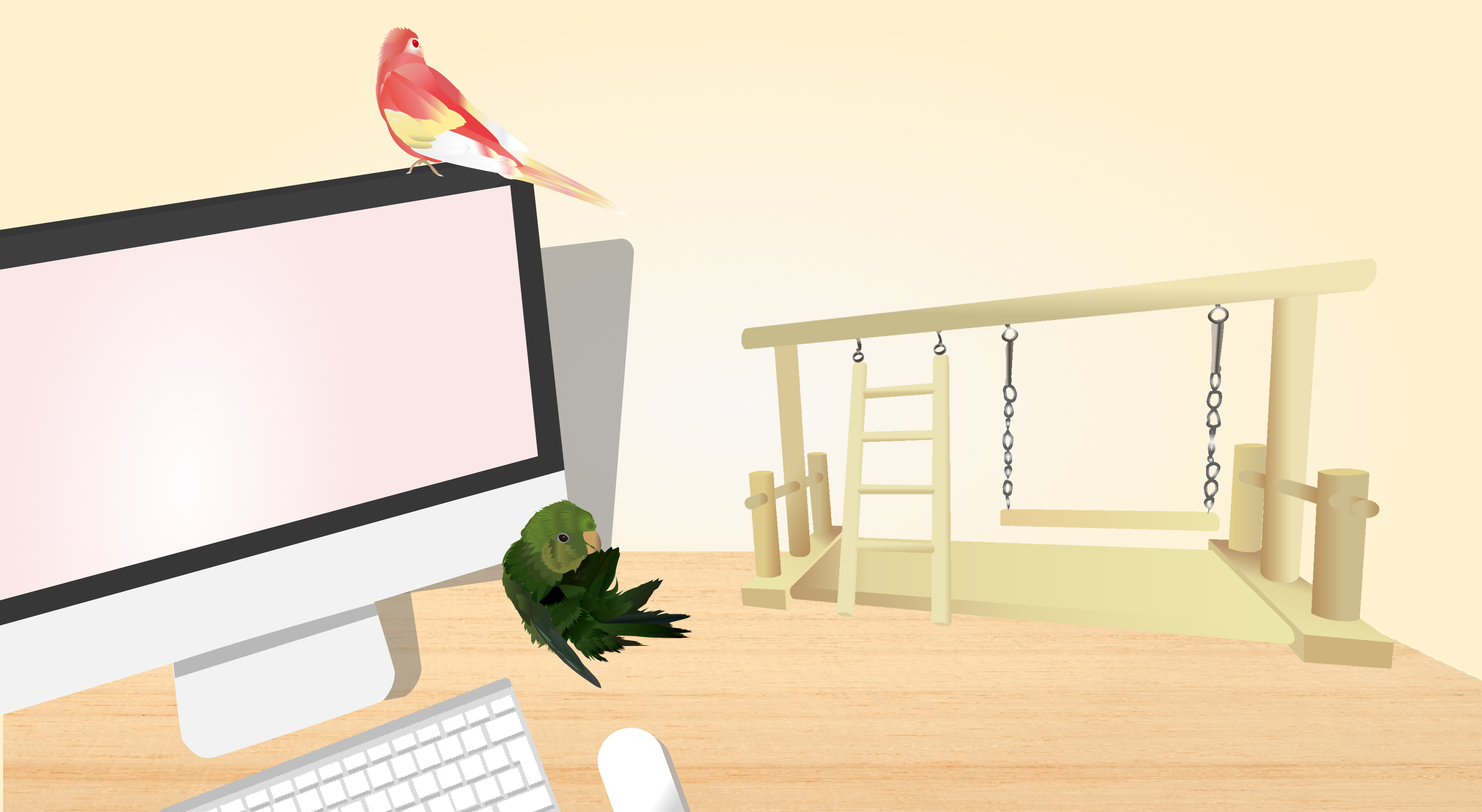
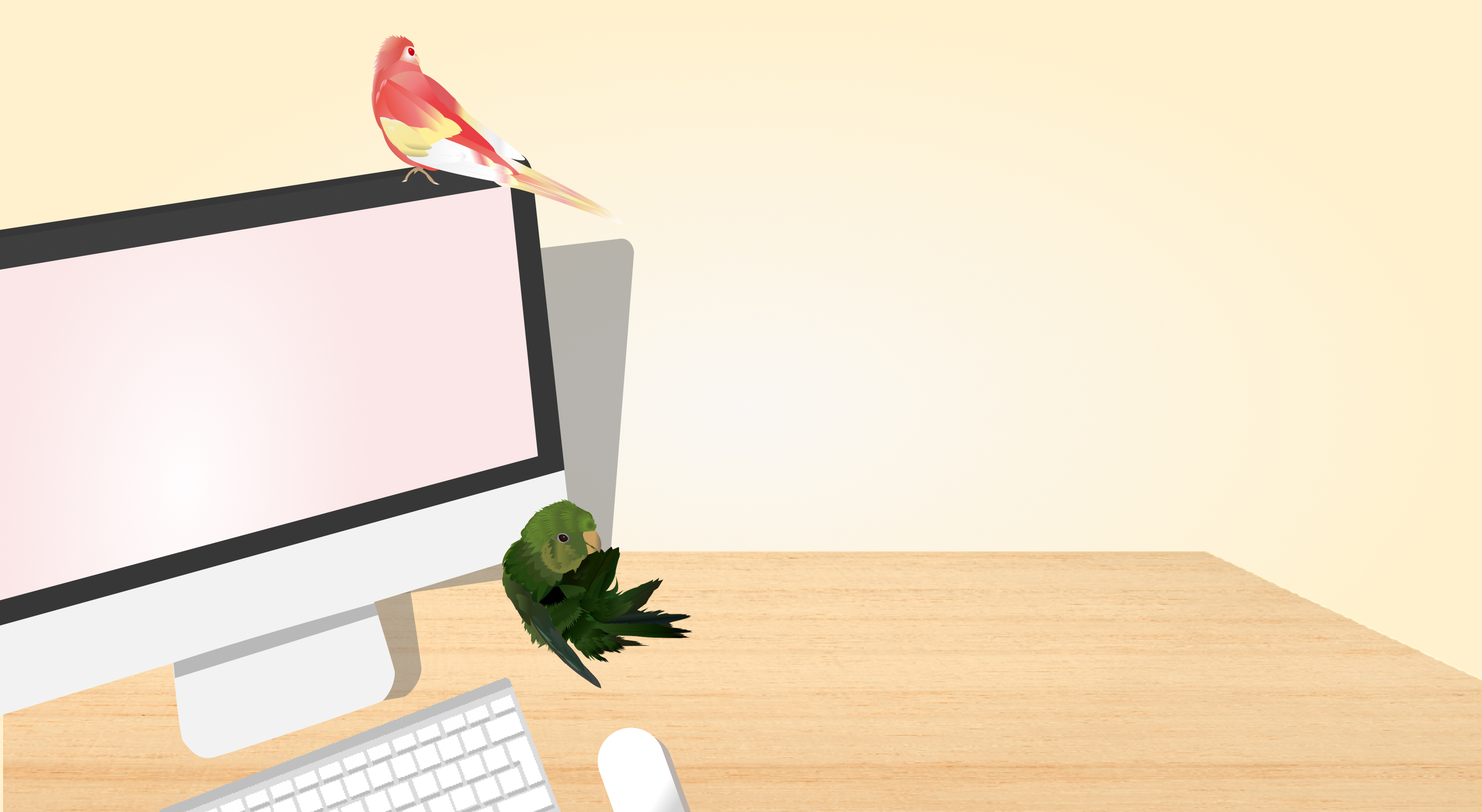
遊具オブジェクトの位置指定
アニメーションに必要な素材の位置のレスポンスを調整。

Changed region(s): [[0.5, 0.3105, 0.9375, 0.8384], [0.25, 0.0311, 0.4062, 0.2795]]

diff --git a/css/style.min.css b/css/style.min.css
@@ -1,2 +1,2 @@
-html{box-sizing:border-box;-webkit-text-size-adjust:100%;word-break:normal;-moz-tab-size:4;-o-tab-size:4;tab-size:4}*,::before,::after{background-repeat:no-repeat;box-sizing:inherit}::before,::after{text-decoration:inherit;vertical-align:inherit}*{padding:0;margin:0}hr{overflow:visible;height:0;color:inherit}details,main{display:block}summary{display:list-item}small{font-size:80%}[hidden]{display:none}abbr[title]{border-bottom:none;text-decoration:underline;-webkit-text-decoration:underline dotted;text-decoration:underline dotted}a{background-color:rgba(0,0,0,0)}a:active,a:hover{outline-width:0}code,kbd,pre,samp{font-family:monospace,monospace}pre{font-size:1em}b,strong{font-weight:bolder}sub,sup{font-size:75%;line-height:0;position:relative;vertical-align:baseline}sub{bottom:-0.25em}sup{top:-0.5em}table{border-color:inherit;text-indent:0}iframe{border-style:none}input{border-radius:0}[type=number]::-webkit-inner-spin-button,[type=number]::-webkit-outer-spin-button{height:auto}[type=search]{-webkit-appearance:textfield;outline-offset:-2px}[type=search]::-webkit-search-decoration{-webkit-appearance:none}textarea{overflow:auto;resize:vertical}button,input,optgroup,select,textarea{font:inherit}optgroup{font-weight:bold}button{overflow:visible}button,select{text-transform:none}button,[type=button],[type=reset],[type=submit],[role=button]{cursor:pointer}button::-moz-focus-inner,[type=button]::-moz-focus-inner,[type=reset]::-moz-focus-inner,[type=submit]::-moz-focus-inner{border-style:none;padding:0}button:-moz-focusring,[type=button]::-moz-focus-inner,[type=reset]::-moz-focus-inner,[type=submit]::-moz-focus-inner{outline:1px dotted ButtonText}button,html [type=button],[type=reset],[type=submit]{-webkit-appearance:button}button,input,select,textarea{background-color:rgba(0,0,0,0);border-style:none}a:focus,button:focus,input:focus,select:focus,textarea:focus{outline-width:0}select{-moz-appearance:none;-webkit-appearance:none}select::-ms-expand{display:none}select::-ms-value{color:currentColor}legend{border:0;color:inherit;display:table;max-width:100%;white-space:normal;max-width:100%}::-webkit-file-upload-button{-webkit-appearance:button;color:inherit;font:inherit}[disabled]{cursor:default}img{border-style:none}progress{vertical-align:baseline}[aria-busy=true]{cursor:progress}[aria-controls]{cursor:pointer}[aria-disabled=true]{cursor:default}html{font-size:62.5%;width:100%;padding:0;margin:0;scroll-behavior:smooth}body{width:100%;height:100%;overflow-x:hidden}@media(min-width: 1024px){body{overflow-y:hidden}}img{width:100%;-o-object-fit:cover;object-fit:cover;vertical-align:bottom}ul{list-style:none}a{text-decoration:none}p{font-family:"Noto Sans JP",sans-serif;line-height:2.3;max-width:329px}h1,h2,h3,h4,h5,h6{font-family:"Noto Sans JP",sans-serif}article{scroll-margin-top:70px}.l-footer{height:120px;display:flex;justify-content:center;align-items:center}.l-footer p{font-size:16px;font-family:"Noto Sans JP",sans-serif}.l-main{width:100%;position:relative}.l-container{background:#fff1cd}@media(min-width: 1024px){.l-container{width:755px;height:800px;overflow-y:scroll;position:absolute;right:0;top:5%;background:url(../../image/png/スマホと手.png);background-size:cover}.l-container::-webkit-scrollbar{display:none}}.l-sidebar{width:100%;height:600px;position:fixed;left:100%;top:0;transition:.7s;z-index:1000;max-width:392px;border-radius:0 0 0 50px}@media(min-width: 1024px){.l-sidebar{position:absolute;height:100%}}.l-sidebar.is-open{left:50%;transform:translateX(-50%);position:fixed}@media(min-width: 1024px){.l-sidebar.is-open{position:absolute;left:0;transform:none}}@media(min-width: 1024px){.c-background--main{height:100vh;position:fixed;width:100%;display:block;background:url(../../../image/jpg/メインエリア.jpg);background-size:cover}}.c-background--cream{background:#fffbd3}.c-background--white{background:#fff}.c-background--gray{background:#f7f8f8}.c-background--sidebar{background:rgba(0,0,0,.6)}.c-logo--main{display:inline-block;width:90px;position:fixed;top:15px;left:calc((100vw - 392px)/2 + 20px);z-index:100000}@media(min-width: 1024px){.c-logo--main{width:200px;position:absolute;left:20px}}.c-logo--mono{width:235px}.c-bird{position:absolute}.c-object--hand{display:none}@media(min-width: 1024px){.c-object--hand{display:block;width:45%;position:fixed;right:6%;top:7%}}.c-object--flame{width:100%;height:76px}.c-object--cage{background:url(../../../image/svg/かご.svg),no-repeat;width:358px;height:496px}.c-object--maru{display:block;background:#fff;width:44px;height:44px;border-radius:50%}.c-button--hamburger{width:28px;height:28px;position:fixed;margin-left:330px;top:25px;z-index:100000}@media(min-width: 1024px){.c-button--hamburger{left:auto;top:auto;margin:35px 0 0 330px}}.c-button--hamburger span{display:block;position:relative;font-size:0;width:100%;height:2px;background:linear-gradient(90deg, #9B9999 3.55%, rgba(217, 217, 217, 0.6) 17.41%, #FF9CBA 52.48%, #F4F152 86.25%, #FFFFFF 100%);border-radius:5px}.c-button--hamburger span::before,.c-button--hamburger span::after{position:absolute;content:"";width:100%;height:2px;background:linear-gradient(90deg, #9B9999 3.55%, rgba(217, 217, 217, 0.6) 17.41%, #FF9CBA 52.48%, #F4F152 86.25%, #FFFFFF 100%);left:0;border-radius:5px;transition:all .3s}.c-button--hamburger span::before{top:-10px}.c-button--hamburger span::after{top:10px}.c-button--hamburger.is-open span{background:none}.c-button--hamburger.is-open span::before,.c-button--hamburger.is-open span::after{top:0}.c-button--hamburger.is-open span::before{transform:rotate(40deg)}.c-button--hamburger.is-open span::after{transform:rotate(-40deg)}.c-button--contact{display:flex;justify-content:space-around;align-items:center;width:336px;height:63px;background:#ffcd4c;border-radius:40px;padding:0 15px 0 56px}.c-button--contact__text{font-size:20px;font-weight:400;color:#363636}.c-button--more,.c-button--more--orange{display:flex;justify-content:space-around;align-items:center;width:267px;height:63px;background:#acdce7;border-radius:40px;padding:0 15px 0 75px}.c-button--more__text{font-size:20px;font-weight:400;color:#363636}.c-button--more--orange{background:#ffcd4c}.c-button--slider{width:238px;display:flex;justify-content:space-between}.c-button--slider button{width:70px;height:60px}.c-button--prev-next{width:70px;height:60px}.c-button--dropdown{background:#ffcd4c;width:300px;height:41px;font-size:17px;font-weight:bold;color:#363636;border-radius:10px;padding-left:36px;position:relative;text-align:left}.c-button--dropdown.is-open{border-radius:10px 10px 0 0}.c-button--dropdown::before,.c-button--dropdown::after{position:absolute;content:""}.c-button--dropdown::before{width:3px;height:26px;right:67px;background:#363636}.c-button--dropdown::after{width:24px;height:22px;top:13px;right:25px;background:url(../../../image/svg/三角形.svg) no-repeat;background-size:contain}.c-button--dropdown--form{border:1px solid #666;width:100%;height:53px;position:relative}.c-button--checkbox{width:33px;height:33px}.c-button--submit{width:100%;height:50px;font-size:18px;font-weight:bold;background:#d2d2d2;border-radius:5px}.c-title--atorie{width:227px}.c-title--about-site--side{width:180px}.c-title--contents{width:195px}.c-title--about-me--side{width:140px}.c-title--inco{display:inline-block;width:184px}.c-title--inco--side{width:140px}.c-title--web{display:inline-block;width:218px}.c-title--web--side{width:163px}.c-title--message{width:180px;margin:0 auto 38px}.c-title--message--side{width:60px}.c-title--contact--side{width:192px}.c-shadow--orange{box-shadow:0px 4px 4px #c3953d}.c-shadow--blue{box-shadow:0px 4px 4px #77bccc}.c-shadow--gray{box-shadow:4px 4px 4px 0px rgba(0,0,0,.25)}.c-animation--push{transition:all .2s}.c-animation--push:hover{transform:translateY(4px);box-shadow:none}.c-wrapper--main{overflow-x:hidden;background:url(../../../image/png/シルエット.png) #656565 repeat-y;background-size:250px;background-attachment:fixed;background-position:center;max-width:392px;margin:auto}@media(min-width: 768px){.c-wrapper--main{scroll-behavior:smooth}}@media(min-width: 1024px){.c-wrapper--main{margin:0;position:relative;top:22px;left:105px;border-radius:65px;height:750px;background:none}.c-wrapper--main::-webkit-scrollbar{display:none}}.c-wrapper--form{border:1px solid #666;margin-bottom:43px}.c-wrapper--checkbox{display:flex;align-items:center;justify-content:space-between;width:138px;height:50px;margin-bottom:30px}.c-layer--sidebar{background:#fff1cd;width:calc((100vw - 392px)/2);height:100vh;position:fixed;top:0;right:0;z-index:9999999}@media(min-width: 1024px){.c-layer--sidebar{display:none}}.c-mark--category{display:inline-block;height:28px;padding:5px 10px;background:#ffcd4c;border-radius:30px}.c-mark--required{position:relative}.c-mark--required::before{position:absolute;line-height:1;content:"必須";left:-70px;color:#fff;font-size:16px;width:58px;height:25px;background:#f44;border-radius:3px;padding:5px 12px}.c-mark--drop{position:relative}.c-mark--drop::after{position:absolute;content:"";width:24px;height:22px;top:20px;right:25px;background:url(../../../image/svg/三角形.svg) no-repeat;background-size:contain}.p-about--site h2{width:372px;margin:0 auto 78px}.p-about--site__content :last-child{margin-bottom:0}.p-about--site__content h3{margin:0 auto 40px}.p-about--site__content p{font-size:20px;margin:0 auto}.p-about--site__content figure{width:307px;margin:0 auto 16px}.p-about--site__content__item{margin-bottom:40px}.p-about--site__content__item a{margin:0 0 10px 25px}.p-about--me{padding-bottom:36px}.p-about--me h2{width:308px;margin:0 auto 40px}.p-first-view{position:relative;background:#fff;padding-bottom:42px}.p-first-view__main-bg{height:340px}.p-first-view__main-bg img{border-radius:0 0 200px 200px;height:100%}.p-first-view__logo{position:absolute;left:50%;transform:translateX(-50%);top:300px}.p-first-view__title{width:304px;margin:120px auto 0}.p-first-view__title :last-child{text-align:end}.p-first-view__title p{font-family:"Noto Sans JP",sans-serif;font-weight:bold;font-size:24px;color:#363636}.p-first-view__button{margin:42px auto 0}.p-first-view--page{position:relative;margin-bottom:73px}.p-first-view--page__title{position:absolute;width:216px;top:37%;left:50%;transform:translateX(-50%)}.p-inco{padding:45px 0}.p-inco h2{width:308px;margin:0 auto 40px}.p-inco__text{width:290px;text-align:center;font-size:22px;margin:0 auto 60px}.p-inco div{margin:0 auto 60px;position:relative}.p-inco div figure{width:274px;height:244px;position:absolute;left:50%;transform:translateX(-50%);bottom:37px}.p-inco div figure img{height:100%;border-radius:3px}.p-inco__button{margin:auto}.p-message{padding:15px 0 67px}.p-message__text,.p-message__text--2{font-size:20px;width:332px;margin:auto}.p-message__text--2{margin:10px auto 38px}.p-message figure{width:341px;margin:-20px auto 0}.p-message__button{margin:auto}.p-profile{padding:60px 0;width:336px;border-radius:20px;background:#f7f8f8;margin:0 auto 40px}.p-profile h3{width:182px;height:30px;margin:0 auto 42px}.p-profile figure{width:270px;height:270px;margin:0 auto 40px}.p-profile ul{text-align:center}.p-profile li{font-size:22px;margin-bottom:30px}.p-profile li p .p-profile__text{font-size:20px}.p-works{padding:25px 0 45px}.p-works h2{width:345px;height:72px;margin:0 auto 30px}.p-works__text-1{width:240px;font-size:20px;margin:0 auto 47px}.p-works__text-2{width:330px;font-size:20px;margin:0 auto 44px}.p-works__button{margin:0 auto 56px}.p-skill article{padding:60px 0;width:336px;border-radius:20px;background:#f7f8f8;margin:0 auto 40px}.p-skill article h3{width:182px;height:30px;margin:0 auto 42px}.p-skill article .p-skill__web li{width:300px;height:150px;padding:0 15px;background:#fff;border-radius:20px;margin:0 auto 40px;display:flex;align-items:center;justify-content:space-between;box-shadow:4px 4px 4px 0px rgba(0,0,0,.25)}.p-skill article .p-skill__web li figure{width:74px;height:74px}.p-skill article .p-skill__web li p{font-size:13px;width:180px;font-weight:bold}.p-skill article .p-skill__inco li figure{margin:auto;width:270px;height:230px}.p-skill article .p-skill__button{margin:30px auto 0}.p-navigation--sidebar{width:212px;margin:130px 90px 0;position:fixed}.p-navigation--sidebar li{margin-bottom:35px;position:relative}.p-navigation--sidebar li::before,.p-navigation--sidebar li::after{position:absolute;content:""}.p-navigation--sidebar li::before{width:25px;height:25px;background:url(../../../image/svg/羽.svg);background-size:cover;top:0;left:-35px;opacity:0;visibility:hidden;transition:.5s}.p-navigation--sidebar li::after{width:100%;height:3px;border-radius:5px;bottom:-5px;left:2px;background:linear-gradient(90deg, #9B9999 1.56%, rgba(217, 217, 217, 0.6) 15.71%, #FF9CBA 51.5%, #F4F152 85.96%, #FFF 100%);transform:scale(0);transition:.8s;transition-delay:.2s;transform-origin:left}.p-navigation--sidebar li:hover::before{opacity:1;visibility:visible}.p-navigation--sidebar li:hover::after{transform:scale(1)}@media(min-width: 1024px){.p-navigation--sidebar.is-open{opacity:1;transition:all .7s ease-in;visibility:visible}}@media(min-width: 1024px){.p-navigation--sidebar{opacity:0;transition:all .2s ease-in;visibility:hidden}}.p-navigation--dropdown{display:flex;justify-content:center;align-items:center;flex-direction:column;position:relative;z-index:50;margin-bottom:67px}.p-navigation--dropdown__content{width:300px;background:#ffcd4c;font-size:17px;font-weight:bold;border-radius:0 0 10px 10px;position:absolute;z-index:40;top:0;opacity:0;visibility:hidden;transition:.5s}.p-navigation--dropdown__content li{width:225px;height:0;padding:10px 0;margin:auto;border-top:2px solid #e3b53f;transition:.5s}.p-navigation--dropdown__content li a{font-size:0;color:#363636}.p-navigation--dropdown__content li a.is-open{font-size:17px}.p-navigation--dropdown__content li.is-open{height:50px}.p-navigation--dropdown__content.is-open{top:41px;opacity:1;visibility:visible}.p-card--works__img{width:365px;height:240px;background:url(../../../image/png/PC_works.png);background-size:cover;margin:0 auto 32px;position:relative}.p-card--works__img img{width:280px;height:190px;position:absolute;left:50%;transform:translateX(-50%);top:10px;-o-object-fit:contain;object-fit:contain}.p-card--works__title{font-size:24px;margin:0 auto 36px;width:267px;text-align:center}.p-card--works__button{margin:0 auto 56px}.p-card--inco{margin-bottom:60px}.p-card--inco__item{margin:0 auto 36px;width:356px;height:180px;display:flex;justify-content:space-between;align-items:center;background:#fff1cd;border-radius:10px}.p-card--inco__item__img{width:160px;height:160px;margin-left:10px}.p-card--inco__item__img img{height:100%;border-radius:10px}.p-card--inco__item__info{display:flex;flex-direction:column;width:166px;height:160px;line-height:1;position:relative}.p-card--inco__item__info__date{font-size:14px}.p-card--inco__item__info__title{font-size:18px;margin-bottom:10px}.p-card--inco__item__info__text{font-size:14px;line-height:1.5}.p-card--inco__item__info__category{position:absolute;bottom:0;display:inline;border-radius:30px;background:#ffcd4c;padding:0 15px;font-size:11.5px}.p-card--works{margin-bottom:60px}.p-card--works__item{border-radius:10px;width:310px;margin:0 auto 36px;padding-bottom:20px}.p-card--works__item__img{width:100%;height:240px;margin-bottom:20px}.p-card--works__item__img img{height:100%}.p-card--works__item__title{text-align:center;font-size:19px;padding:0 10px}.p-pagenation__content{width:350px;margin:0 auto 60px;display:flex;justify-content:space-between}.p-pagenation__content li{display:flex;align-items:center;font-size:20px}.p-pagenation__content li .p-pagenation__content__page{width:30px;text-align:center;color:#363636}.p-single{width:340px;margin:auto}.p-single__title{font-size:30px;margin-bottom:48px;text-align:center;color:#363636}.p-single__img{width:310px;height:310px;border-radius:10px;margin:0 auto 36px;background:#363636;overflow:hidden;display:flex;align-items:center}.p-single__date-category{display:flex;justify-content:space-between;align-items:center;margin-bottom:20px}.p-single__date-category__dt{font-size:24px;font-weight:700}.p-single__date-category__ct{width:175px;display:flex;flex-wrap:wrap;justify-content:space-between}.p-single__date-category__ct li{font-size:12px;font-weight:bold}.p-single__overview{font-size:17px;display:flex;flex-wrap:wrap;margin-bottom:36px}.p-single__overview dt,.p-single__overview dd{margin-bottom:15px}.p-single__overview dt{width:30%;position:relative;font-weight:700}.p-single__overview dt::after{position:absolute;content:":"}.p-single__overview dd{line-height:1.7;width:70%}.p-single__text{font-size:18px;width:336px;margin:0 auto 40px}.p-contact{width:329px;margin:0 auto 80px}.p-contact__text{font-size:18px;margin-bottom:70px;max-height:295px;overflow-y:scroll}.p-contact__text::-webkit-scrollbar{display:none}.p-contact__form__label,.p-contact__form__label--privacy{display:block;margin-left:70px;font-size:20px;font-weight:bold;color:#363636;margin-bottom:17px}.p-contact__form__label--privacy{margin-left:auto;font-size:17px}.p-contact__form select{margin-bottom:43px;font-size:18px;font-weight:bold;padding:0 10px}.p-contact__form select option{width:100%}.p-contact__form__input,.p-contact__form__textarea{font-size:18px;display:block;width:100%;height:53px;margin-bottom:43px;padding:10px}.p-contact__form__textarea{height:294px}.p-contact__form__privacy{font-size:16px;color:#636363;font-weight:bold}.swiper-button-prev::after{display:none}.u-margin--b--135{margin-bottom:135px}.u-margin--button{margin:0 auto 93px}.u-font-size--18{font-size:18px}.u-font-weight--bold{font-weight:bold}
+html{box-sizing:border-box;-webkit-text-size-adjust:100%;word-break:normal;-moz-tab-size:4;-o-tab-size:4;tab-size:4}*,::before,::after{background-repeat:no-repeat;box-sizing:inherit}::before,::after{text-decoration:inherit;vertical-align:inherit}*{padding:0;margin:0}hr{overflow:visible;height:0;color:inherit}details,main{display:block}summary{display:list-item}small{font-size:80%}[hidden]{display:none}abbr[title]{border-bottom:none;text-decoration:underline;-webkit-text-decoration:underline dotted;text-decoration:underline dotted}a{background-color:rgba(0,0,0,0)}a:active,a:hover{outline-width:0}code,kbd,pre,samp{font-family:monospace,monospace}pre{font-size:1em}b,strong{font-weight:bolder}sub,sup{font-size:75%;line-height:0;position:relative;vertical-align:baseline}sub{bottom:-0.25em}sup{top:-0.5em}table{border-color:inherit;text-indent:0}iframe{border-style:none}input{border-radius:0}[type=number]::-webkit-inner-spin-button,[type=number]::-webkit-outer-spin-button{height:auto}[type=search]{-webkit-appearance:textfield;outline-offset:-2px}[type=search]::-webkit-search-decoration{-webkit-appearance:none}textarea{overflow:auto;resize:vertical}button,input,optgroup,select,textarea{font:inherit}optgroup{font-weight:bold}button{overflow:visible}button,select{text-transform:none}button,[type=button],[type=reset],[type=submit],[role=button]{cursor:pointer}button::-moz-focus-inner,[type=button]::-moz-focus-inner,[type=reset]::-moz-focus-inner,[type=submit]::-moz-focus-inner{border-style:none;padding:0}button:-moz-focusring,[type=button]::-moz-focus-inner,[type=reset]::-moz-focus-inner,[type=submit]::-moz-focus-inner{outline:1px dotted ButtonText}button,html [type=button],[type=reset],[type=submit]{-webkit-appearance:button}button,input,select,textarea{background-color:rgba(0,0,0,0);border-style:none}a:focus,button:focus,input:focus,select:focus,textarea:focus{outline-width:0}select{-moz-appearance:none;-webkit-appearance:none}select::-ms-expand{display:none}select::-ms-value{color:currentColor}legend{border:0;color:inherit;display:table;max-width:100%;white-space:normal;max-width:100%}::-webkit-file-upload-button{-webkit-appearance:button;color:inherit;font:inherit}[disabled]{cursor:default}img{border-style:none}progress{vertical-align:baseline}[aria-busy=true]{cursor:progress}[aria-controls]{cursor:pointer}[aria-disabled=true]{cursor:default}html{font-size:62.5%;width:100%;padding:0;margin:0;scroll-behavior:smooth}body{width:100%;height:100%;overflow-x:hidden}@media(min-width: 1024px){body{overflow-y:hidden}}img{width:100%;-o-object-fit:cover;object-fit:cover;vertical-align:bottom}ul{list-style:none}a{text-decoration:none}p{font-family:"Noto Sans JP",sans-serif;line-height:2.3;max-width:329px}h1,h2,h3,h4,h5,h6{font-family:"Noto Sans JP",sans-serif}article{scroll-margin-top:70px}.l-footer{height:120px;display:flex;justify-content:center;align-items:center}.l-footer p{font-size:16px;font-family:"Noto Sans JP",sans-serif}.l-main{width:100%;position:relative}.l-container{background:#fff1cd}@media(min-width: 1024px){.l-container{width:755px;height:810px;overflow-y:scroll;position:absolute;z-index:200;top:0;right:0;background:url(../../image/png/スマホと手.png);background-size:cover;transition:.6s}.l-container::-webkit-scrollbar{display:none}.l-container.is-down{top:320px}}.l-sidebar{width:100%;height:600px;position:fixed;left:100%;top:0;transition:.7s;z-index:1000;max-width:392px;border-radius:0 0 0 50px}@media(min-width: 1024px){.l-sidebar{position:absolute;height:100%}}.l-sidebar.is-open{left:50%;transform:translateX(-50%);position:fixed}@media(min-width: 1024px){.l-sidebar.is-open{position:absolute;left:0;transform:none}}@media(min-width: 1024px){.c-background--main{height:100vh;max-height:810px;position:fixed;width:100%;display:block;background:url(../../../image/jpg/メインエリア.jpg);background-size:cover}}.c-background--cream{background:#fffbd3}.c-background--white{background:#fff}.c-background--gray{background:#f7f8f8}.c-background--sidebar{background:rgba(0,0,0,.6)}.c-logo--main{display:inline-block;width:90px;position:fixed;top:15px;left:calc((100vw - 392px)/2 + 20px);z-index:100000}@media(min-width: 1024px){.c-logo--main{width:200px;position:absolute;left:20px}}.c-logo--mono{width:235px}.c-bird{position:absolute}.c-object--hand{display:none}@media(min-width: 1024px){.c-object--hand{display:block;width:45%;position:fixed;right:6%;top:7%}}.c-object--flame{width:100%;height:76px}.c-object--cage{background:url(../../../image/svg/かご.svg),no-repeat;width:358px;height:496px}.c-object--maru{display:block;background:#fff;width:44px;height:44px;border-radius:50%}.c-object--playground{width:45.2777777778%;min-width:652px;position:absolute;right:3.2638888889%;left:90%;top:32%;z-index:10}.c-button--hamburger{width:28px;height:28px;position:fixed;margin-left:330px;top:25px;z-index:100000}@media(min-width: 1024px){.c-button--hamburger{left:auto;top:auto;margin:35px 0 0 330px}}.c-button--hamburger span{display:block;position:relative;font-size:0;width:100%;height:2px;background:linear-gradient(90deg, #9B9999 3.55%, rgba(217, 217, 217, 0.6) 17.41%, #FF9CBA 52.48%, #F4F152 86.25%, #FFFFFF 100%);border-radius:5px}.c-button--hamburger span::before,.c-button--hamburger span::after{position:absolute;content:"";width:100%;height:2px;background:linear-gradient(90deg, #9B9999 3.55%, rgba(217, 217, 217, 0.6) 17.41%, #FF9CBA 52.48%, #F4F152 86.25%, #FFFFFF 100%);left:0;border-radius:5px;transition:all .3s}.c-button--hamburger span::before{top:-10px}.c-button--hamburger span::after{top:10px}.c-button--hamburger.is-open span{background:none}.c-button--hamburger.is-open span::before,.c-button--hamburger.is-open span::after{top:0}.c-button--hamburger.is-open span::before{transform:rotate(40deg)}.c-button--hamburger.is-open span::after{transform:rotate(-40deg)}.c-button--contact{display:flex;justify-content:space-around;align-items:center;width:336px;height:63px;background:#ffcd4c;border-radius:40px;padding:0 15px 0 56px}.c-button--contact__text{font-size:20px;font-weight:400;color:#363636}.c-button--more,.c-button--more--orange{display:flex;justify-content:space-around;align-items:center;width:267px;height:63px;background:#acdce7;border-radius:40px;padding:0 15px 0 75px}.c-button--more__text{font-size:20px;font-weight:400;color:#363636}.c-button--more--orange{background:#ffcd4c}.c-button--slider{width:238px;display:flex;justify-content:space-between}.c-button--slider button{width:70px;height:60px}.c-button--prev-next{width:70px;height:60px}.c-button--dropdown{background:#ffcd4c;width:300px;height:41px;font-size:17px;font-weight:bold;color:#363636;border-radius:10px;padding-left:36px;position:relative;text-align:left}.c-button--dropdown.is-open{border-radius:10px 10px 0 0}.c-button--dropdown::before,.c-button--dropdown::after{position:absolute;content:""}.c-button--dropdown::before{width:3px;height:26px;right:67px;background:#363636}.c-button--dropdown::after{width:24px;height:22px;top:13px;right:25px;background:url(../../../image/svg/三角形.svg) no-repeat;background-size:contain}.c-button--dropdown--form{border:1px solid #666;width:100%;height:53px;position:relative;z-index:2}.c-button--checkbox{width:33px;height:33px}.c-button--submit{width:100%;height:50px;font-size:18px;font-weight:bold;background:#d2d2d2;border-radius:5px}.c-button--gimmick{width:25px;height:115px;font-size:0;position:absolute;z-index:500000;top:205px;left:500px;cursor:pointer}.c-title--atorie{width:227px}.c-title--about-site--side{width:180px}.c-title--contents{width:195px}.c-title--about-me--side{width:140px}.c-title--inco{display:inline-block;width:184px}.c-title--inco--side{width:140px}.c-title--web{display:inline-block;width:218px}.c-title--web--side{width:163px}.c-title--message{width:180px;margin:0 auto 38px}.c-title--message--side{width:60px}.c-title--contact--side{width:192px}.c-title--slide--inco{margin:auto;text-align:center;font-size:20px}.c-shadow--orange{box-shadow:0px 4px 4px #c3953d}.c-shadow--blue{box-shadow:0px 4px 4px #77bccc}.c-shadow--gray{box-shadow:4px 4px 4px 0px rgba(0,0,0,.25)}.c-animation--push{transition:all .2s}.c-animation--push:hover{transform:translateY(4px);box-shadow:none}.c-wrapper--main{overflow-x:hidden;background:url(../../../image/png/シルエット.png) #656565 repeat-y;background-size:250px;background-attachment:fixed;background-position:center;max-width:392px;margin:auto}@media(min-width: 768px){.c-wrapper--main{scroll-behavior:smooth}}@media(min-width: 1024px){.c-wrapper--main{margin:0;position:relative;top:22px;left:105px;border-radius:65px;height:750px;background:none}.c-wrapper--main::-webkit-scrollbar{display:none}}.c-wrapper--form{border:1px solid #666;margin-bottom:43px}.c-wrapper--checkbox{display:flex;align-items:center;justify-content:space-between;width:138px;height:50px;margin-bottom:30px}.c-layer--sidebar{background:#fff1cd;width:calc((100vw - 392px)/2);height:100vh;position:fixed;top:0;right:0;z-index:9999999}@media(min-width: 1024px){.c-layer--sidebar{display:none}}.c-mark--category{display:inline-block;height:28px;padding:5px 10px;background:#ffcd4c;border-radius:30px}.c-mark--required{position:relative}.c-mark--required::before{position:absolute;line-height:1;content:"必須";left:-70px;color:#fff;font-size:16px;width:58px;height:25px;background:#f44;border-radius:3px;padding:5px 12px}.c-mark--drop{position:relative}.c-mark--drop::after{position:absolute;content:"";width:24px;height:22px;top:20px;right:25px;background:url(../../../image/svg/三角形.svg) no-repeat;background-size:contain;z-index:1}.p-about--site h2{width:372px;margin:0 auto 78px}.p-about--site__content :last-child{margin-bottom:0}.p-about--site__content h3{margin:0 auto 40px}.p-about--site__content p{font-size:20px;margin:0 auto}.p-about--site__content figure{width:307px;margin:0 auto 16px}.p-about--site__content__item{margin-bottom:40px}.p-about--site__content__item a{margin:0 0 10px 35px}.p-about--me{padding-bottom:36px}.p-about--me h2{width:308px;margin:0 auto 40px}.p-first-view{position:relative;background:#fff;padding-bottom:42px}.p-first-view__main-bg{height:340px}.p-first-view__main-bg img{border-radius:0 0 200px 200px;height:100%}.p-first-view__logo{position:absolute;left:50%;transform:translateX(-50%);top:300px}.p-first-view__title{width:304px;margin:120px auto 0}.p-first-view__title :last-child{text-align:end}.p-first-view__title p{font-family:"Noto Sans JP",sans-serif;font-weight:bold;font-size:24px;color:#363636}.p-first-view__button{margin:42px auto 0}.p-first-view--page{position:relative;margin-bottom:73px}.p-first-view--page__title{position:absolute;width:216px;top:37%;left:50%;transform:translateX(-50%)}.p-inco{padding:45px 0}.p-inco h2{width:308px;margin:0 auto 40px}.p-inco__text{width:290px;text-align:center;font-size:22px;margin:0 auto 60px}.p-inco div{margin:0 auto 60px;position:relative}.p-inco div figure{width:274px;height:244px;position:absolute;left:50%;transform:translateX(-50%);bottom:37px}.p-inco div figure img{height:100%;border-radius:3px}.p-inco__button{margin:auto}.p-message{padding:15px 0 67px}.p-message__text,.p-message__text--2{font-size:20px;width:332px;margin:auto}.p-message__text--2{margin:10px auto 38px}.p-message figure{width:341px;margin:-20px auto 0}.p-message__button{margin:auto}.p-profile{padding:60px 0;width:336px;border-radius:20px;background:#f7f8f8;margin:0 auto 40px}.p-profile h3{width:182px;height:30px;margin:0 auto 42px}.p-profile figure{width:270px;height:270px;margin:0 auto 40px}.p-profile ul{text-align:center}.p-profile li{font-size:22px;margin-bottom:30px}.p-profile li p .p-profile__text{font-size:20px}.p-works{padding:25px 0 45px}.p-works h2{width:345px;height:72px;margin:0 auto 30px}.p-works__text-1{width:240px;font-size:20px;margin:0 auto 47px}.p-works__text-2{width:330px;font-size:20px;margin:0 auto 44px}.p-works__button{margin:0 auto 56px}.p-skill article{padding:60px 0;width:336px;border-radius:20px;background:#f7f8f8;margin:0 auto 40px}.p-skill article h3{width:182px;height:30px;margin:0 auto 42px}.p-skill article .p-skill__web li{width:300px;height:150px;padding:0 15px;background:#fff;border-radius:20px;margin:0 auto 40px;display:flex;align-items:center;justify-content:space-between;box-shadow:4px 4px 4px 0px rgba(0,0,0,.25)}.p-skill article .p-skill__web li figure{width:74px;height:74px}.p-skill article .p-skill__web li p{font-size:13px;width:180px;font-weight:bold}.p-skill article .p-skill__inco li figure{margin:auto;width:200px;height:200px}.p-skill article .p-skill__button{margin:35px auto 0}.p-navigation--sidebar{width:212px;margin:130px 90px 0;position:fixed}.p-navigation--sidebar li{margin-bottom:35px;position:relative}.p-navigation--sidebar li::before,.p-navigation--sidebar li::after{position:absolute;content:""}.p-navigation--sidebar li::before{width:25px;height:25px;background:url(../../../image/svg/羽.svg);background-size:cover;top:0;left:-35px;opacity:0;visibility:hidden;transition:.5s}.p-navigation--sidebar li::after{width:100%;height:3px;border-radius:5px;bottom:-5px;left:2px;background:linear-gradient(90deg, #9B9999 1.56%, rgba(217, 217, 217, 0.6) 15.71%, #FF9CBA 51.5%, #F4F152 85.96%, #FFF 100%);transform:scale(0);transition:.8s;transition-delay:.2s;transform-origin:left}.p-navigation--sidebar li:hover::before{opacity:1;visibility:visible}.p-navigation--sidebar li:hover::after{transform:scale(1)}@media(min-width: 1024px){.p-navigation--sidebar.is-open{opacity:1;transition:all .7s ease-in;visibility:visible}}@media(min-width: 1024px){.p-navigation--sidebar{opacity:0;transition:all .2s ease-in;visibility:hidden}}.p-navigation--dropdown{display:flex;justify-content:center;align-items:center;flex-direction:column;position:relative;z-index:50;margin-bottom:67px}.p-navigation--dropdown__content{width:300px;background:#ffcd4c;font-size:17px;font-weight:bold;border-radius:0 0 10px 10px;position:absolute;z-index:40;top:0;opacity:0;visibility:hidden;transition:.5s}.p-navigation--dropdown__content li{width:225px;height:0;padding:10px 0;margin:auto;border-top:2px solid #e3b53f;transition:.5s}.p-navigation--dropdown__content li a{font-size:0;color:#363636}.p-navigation--dropdown__content li a.is-open{font-size:17px}.p-navigation--dropdown__content li.is-open{height:50px}.p-navigation--dropdown__content.is-open{top:41px;opacity:1;visibility:visible}.p-card--works__img{width:365px;height:240px;background:url(../../../image/png/PC_works.png);background-size:cover;margin:0 auto 30px;position:relative}.p-card--works__img img{width:280px;height:190px;position:absolute;left:50%;transform:translateX(-50%);top:10px;-o-object-fit:contain;object-fit:contain}.p-card--works__title{font-size:24px;margin:0 auto 50px;width:267px;text-align:center}.p-card--works__button{margin:0 auto 45px}.p-card--inco{margin-bottom:60px}.p-card--inco__item{margin:0 auto 36px;width:356px;height:180px;display:flex;justify-content:space-between;align-items:center;background:#fff1cd;border-radius:10px}.p-card--inco__item__img{width:160px;height:160px;margin-left:10px}.p-card--inco__item__img img{height:100%;border-radius:10px}.p-card--inco__item__info{display:flex;flex-direction:column;width:166px;height:160px;line-height:1;position:relative}.p-card--inco__item__info__date{font-size:14px}.p-card--inco__item__info__title{font-size:18px;margin-bottom:10px}.p-card--inco__item__info__text{font-size:14px;line-height:1.5}.p-card--inco__item__info__category{position:absolute;bottom:0;display:inline;border-radius:30px;background:#ffcd4c;padding:0 15px;font-size:11.5px}.p-pagenation__content{width:350px;margin:0 auto 60px;display:flex;justify-content:space-between}.p-pagenation__content li{display:flex;align-items:center;font-size:20px}.p-pagenation__content li .p-pagenation__content__page{width:30px;text-align:center;color:#363636}.p-single{width:340px;margin:auto}.p-single__title{font-size:30px;margin-bottom:48px;text-align:center;color:#363636}.p-single__img{width:310px;height:310px;border-radius:10px;margin:0 auto 36px;background:#363636;overflow:hidden;display:flex;align-items:center}.p-single__date-category{display:flex;justify-content:space-between;align-items:center;margin-bottom:20px}.p-single__date-category__dt{font-size:24px;font-weight:700}.p-single__date-category__ct{width:175px;display:flex;flex-wrap:wrap;justify-content:space-between}.p-single__date-category__ct li{font-size:12px;font-weight:bold}.p-single__overview{font-size:17px;display:flex;flex-wrap:wrap;margin-bottom:36px}.p-single__overview dt,.p-single__overview dd{margin-bottom:15px}.p-single__overview dt{width:30%;position:relative;font-weight:700}.p-single__overview dt::after{position:absolute;content:":"}.p-single__overview dd{line-height:1.7;width:70%}.p-single__text{font-size:18px;width:336px;margin:0 auto 40px}.p-contact{width:329px;margin:0 auto 80px}.p-contact__text{font-size:18px;margin-bottom:70px;max-height:295px;padding:0 5px;overflow-y:scroll}.p-contact__text::-webkit-scrollbar{display:none}.p-contact__form__label,.p-contact__form__label--privacy{display:block;margin-left:70px;font-size:18px;font-weight:bold;color:#363636;margin-bottom:17px}.p-contact__form__label--privacy{margin-left:auto;font-size:17px}.p-contact__form select{margin-bottom:43px;font-size:18px;font-weight:bold;padding:0 10px}.p-contact__form select option{width:100%}.p-contact__form__input,.p-contact__form__textarea{font-size:18px;display:block;width:100%;height:53px;margin-bottom:43px;padding:10px}.p-contact__form__textarea{height:294px}.p-contact__form__privacy{font-size:16px;color:#636363;font-weight:bold}.swiper-button-prev,.swiper-button-next{position:static}.swiper-button-prev::after,.swiper-button-next::after{display:none}.p-mocup{display:none}@media(min-width: 1024px){.p-mocup{display:inline-block;background:url("../../../image/svg/Vector.svg");-webkit-mask-image:url("../../../image/svg/Vector.svg");mask-image:url("../../../image/svg/Vector.svg");position:relative;top:189px;left:0;z-index:100;width:36.3194444444%;max-width:523px;height:49.6296296296%;max-height:402px;overflow:hidden}}.p-mocup img{position:absolute;-o-object-fit:contain;object-fit:contain;width:47.8011472275%;height:62.1890547264%;left:50%;top:45%;transform:translate(-50%, -50%);opacity:0}.p-mocup img img{height:100%;-o-object-fit:contain;object-fit:contain}.u-margin--b--135{margin-bottom:135px}.u-margin--button{margin:0 auto 93px}.u-font-size--18{font-size:18px}.u-font-weight--bold{font-weight:bold}
 /*# sourceMappingURL=style.min.css.map */

diff --git a/css/style.css b/css/style.css
@@ -347,16 +347,21 @@ article {
 @media (min-width: 1024px) {
   .l-container {
     width: 755px;
-    height: 800px;
+    height: 810px;
     overflow-y: scroll;
     position: absolute;
+    z-index: 200;
+    top: 0;
     right: 0;
-    top: 5%;
     background: url(../../image/png/スマホと手.png);
     background-size: cover;
+    transition: 0.6s;
   }
   .l-container::-webkit-scrollbar {
     display: none;
+  }
+  .l-container.is-down {
+    top: 320px;
   }
 }
 
@@ -393,6 +398,7 @@ article {
 @media (min-width: 1024px) {
   .c-background--main {
     height: 100vh;
+    max-height: 810px;
     position: fixed;
     width: 100%;
     display: block;
@@ -463,6 +469,15 @@ article {
   width: 44px;
   height: 44px;
   border-radius: 50%;
+}
+.c-object--playground {
+  width: 45.2777777778%;
+  min-width: 652px;
+  position: absolute;
+  right: 3.2638888889%;
+  left: 90%;
+  top: 32%;
+  z-index: 10;
 }
 
 .c-button--hamburger {
@@ -601,6 +616,7 @@ article {
   width: 100%;
   height: 53px;
   position: relative;
+  z-index: 2;
 }
 .c-button--checkbox {
   width: 33px;
@@ -613,6 +629,16 @@ article {
   font-weight: bold;
   background: #D2D2D2;
   border-radius: 5px;
+}
+.c-button--gimmick {
+  width: 25px;
+  height: 115px;
+  font-size: 0;
+  position: absolute;
+  z-index: 500000;
+  top: 205px;
+  left: 500px;
+  cursor: pointer;
 }
 
 .c-title--atorie {
@@ -650,6 +676,11 @@ article {
 }
 .c-title--contact--side {
   width: 192px;
+}
+.c-title--slide--inco {
+  margin: auto;
+  text-align: center;
+  font-size: 20px;
 }
 
 .c-shadow--orange {
@@ -761,6 +792,7 @@ article {
   right: 25px;
   background: url(../../../image/svg/三角形.svg) no-repeat;
   background-size: contain;
+  z-index: 1;
 }
 
 .p-about--site h2 {
@@ -785,7 +817,7 @@ article {
   margin-bottom: 40px;
 }
 .p-about--site__content__item a {
-  margin: 0 0 10px 25px;
+  margin: 0 0 10px 35px;
 }
 
 .p-about--me {
@@ -979,11 +1011,11 @@ article {
 }
 .p-skill article .p-skill__inco li figure {
   margin: auto;
-  width: 270px;
-  height: 230px;
+  width: 200px;
+  height: 200px;
 }
 .p-skill article .p-skill__button {
-  margin: 30px auto 0;
+  margin: 35px auto 0;
 }
 
 .p-navigation--sidebar {
@@ -1094,7 +1126,7 @@ article {
   height: 240px;
   background: url(../../../image/png/PC_works.png);
   background-size: cover;
-  margin: 0 auto 32px;
+  margin: 0 auto 30px;
   position: relative;
 }
 .p-card--works__img img {
@@ -1109,12 +1141,12 @@ article {
 }
 .p-card--works__title {
   font-size: 24px;
-  margin: 0 auto 36px;
+  margin: 0 auto 50px;
   width: 267px;
   text-align: center;
 }
 .p-card--works__button {
-  margin: 0 auto 56px;
+  margin: 0 auto 45px;
 }
 .p-card--inco {
   margin-bottom: 60px;
@@ -1165,28 +1197,6 @@ article {
   background: #FFCD4C;
   padding: 0 15px;
   font-size: 11.5px;
-}
-.p-card--works {
-  margin-bottom: 60px;
-}
-.p-card--works__item {
-  border-radius: 10px;
-  width: 310px;
-  margin: 0 auto 36px;
-  padding-bottom: 20px;
-}
-.p-card--works__item__img {
-  width: 100%;
-  height: 240px;
-  margin-bottom: 20px;
-}
-.p-card--works__item__img img {
-  height: 100%;
-}
-.p-card--works__item__title {
-  text-align: center;
-  font-size: 19px;
-  padding: 0 10px;
 }
 
 .p-pagenation__content {
@@ -1282,6 +1292,7 @@ article {
   font-size: 18px;
   margin-bottom: 70px;
   max-height: 295px;
+  padding: 0 5px;
   overflow-y: scroll;
 }
 .p-contact__text::-webkit-scrollbar {
@@ -1290,7 +1301,7 @@ article {
 .p-contact__form__label, .p-contact__form__label--privacy {
   display: block;
   margin-left: 70px;
-  font-size: 20px;
+  font-size: 18px;
   font-weight: bold;
   color: #363636;
   margin-bottom: 17px;
@@ -1325,8 +1336,48 @@ article {
   font-weight: bold;
 }
 
-.swiper-button-prev::after {
+.swiper-button-prev, .swiper-button-next {
+  position: static;
+}
+.swiper-button-prev::after, .swiper-button-next::after {
   display: none;
+}
+
+.p-mocup {
+  display: none;
+}
+@media (min-width: 1024px) {
+  .p-mocup {
+    display: inline-block;
+    background: url("../../../image/svg/Vector.svg");
+    -webkit-mask-image: url("../../../image/svg/Vector.svg");
+            mask-image: url("../../../image/svg/Vector.svg");
+    position: relative;
+    top: 189px;
+    left: 0;
+    z-index: 100;
+    width: 36.3194444444%;
+    max-width: 523px;
+    height: 49.6296296296%;
+    max-height: 402px;
+    overflow: hidden;
+  }
+}
+.p-mocup img {
+  position: absolute;
+  -o-object-fit: contain;
+     object-fit: contain;
+  width: 47.8011472275%;
+  height: 62.1890547264%;
+  left: 50%;
+  top: 45%;
+  transform: translate(-50%, -50%);
+  opacity: 0;
+}
+.p-mocup img img {
+  height: 100%;
+  -o-object-fit: contain;
+     object-fit: contain;
 }
 
 .u-margin--b--135 {

diff --git a/src/js/navigation.js b/src/js/navigation.js
@@ -16,19 +16,23 @@ document.addEventListener("DOMContentLoaded", function() {
     });
 
     // ドロップダウンメニューをクリックするとサブメニューが出現
-    document.querySelector(".js-dropdown").addEventListener("click", function() {
-        document.querySelector(".c-button--dropdown").classList.toggle("is-open");
-        document.querySelector(".p-navigation--dropdown__content").classList.toggle("is-open");
+    const dropdownElement = document.querySelector(".js-dropdown");
 
-        const listItemElements = document.querySelectorAll(".p-navigation--dropdown__content li");
-        listItemElements.forEach(function(li) {
-            li.classList.toggle("is-open");
-            const anchorElement = li.querySelector("a");
-            if (anchorElement) {
-                anchorElement.classList.toggle("is-open");
-            }
-        });
-    });
+    if(dropdownElement){
+        dropdownElement.addEventListener("click", function() {
+            document.querySelector(".c-button--dropdown").classList.toggle("is-open");
+            document.querySelector(".p-navigation--dropdown__content").classList.toggle("is-open");
+    
+            const listItemElements = document.querySelectorAll(".p-navigation--dropdown__content li");
+            listItemElements.forEach(function(li) {
+                li.classList.toggle("is-open");
+                const anchorElement = li.querySelector("a");
+                if (anchorElement) {
+                    anchorElement.classList.toggle("is-open");
+                }
+            });
+        });    
+    }
 });
 
 

diff --git a/src/scss/Object/Component/_object.scss b/src/scss/Object/Component/_object.scss
@@ -2,19 +2,6 @@
 
 .c-object{
 
-    &--hand{
-        display: none;
-        
-        @include breakpoint(pc){
-            display: block;
-            width: 45%;
-            position: fixed;
-            right: 6%;
-            top: 7%;
-
-        }
-    }
-
     &--flame{
         width: 100%;
         height: 76px;
@@ -34,5 +21,17 @@
         width: 44px;
         height: 44px;
         border-radius: 50%;
+    }
+
+    &--playground{
+        width: calc(652% / 1440 * 100);
+        min-width: 652px;
+        position: absolute;
+        top: 32%;
+        z-index: 10;
+        @include breakpoint(pc){
+            // left: calc(max(50%, min(70%, 70% + (100vw - 1024px))));
+            left: max(calc(70% - (100vw - 1024px)),50%);
+        }
     }
 }

diff --git a/src/index.html b/src/index.html
@@ -20,6 +20,7 @@
         <img src="./image/png/illust/asset5.png" class="animated-image">
         <img src="./image/png/illust/asset6.png" class="animated-image">
       </div>  
+      <figure class="c-object--playground c-display--control"><img src="./image/png/遊具.png"></figure>
     </div>
     <div class="l-container">
       <button class="c-button--gimmick js-gimmick">仕掛けのボタン</button>

diff --git a/src/js/illust-animation.js b/src/js/illust-animation.js
@@ -85,3 +85,15 @@ document.addEventListener("DOMContentLoaded", function() {
  });
 
 });
+
+import { MotionPathPlugin } from 'gsap/MotionPathPlugin.js';
+gsap.registerPlugin(MotionPathPlugin);
+
+// gsap.to('.l-container', {
+//   duration: 2,
+//   motionPath: {
+//     path: [{ x: 500, y: 200 }, { x: 2000, y: -500 }],
+//     curviness: 1,
+//     ease: 'power3.in'
+//   }
+// });

diff --git a/src/scss/Layout/_container.scss b/src/scss/Layout/_container.scss
@@ -15,7 +15,7 @@
         // top: 5%;
         background: url(../../image/png/スマホと手.png);
         background-size: cover;
-        transition: .3s;
+        transition: .6s;
         
         &::-webkit-scrollbar {
             display: none;

diff --git a/src/scss/style.scss b/src/scss/style.scss
@@ -34,6 +34,7 @@
 @use "../scss/Object/Component/wrapper";
 @use "../scss/Object/Component/layer";
 @use "../scss/Object/Component/mark";
+@use "../scss/Object/Component/display";
 
 // ----------
 // Project

diff --git a/src/scss/Object/Component/_display.scss b/src/scss/Object/Component/_display.scss
@@ -1,0 +1,13 @@
+@use "../../Foundation/variable" as *;
+
+.c-display{
+
+    &--control{
+        display: none;
+
+        @include breakpoint(pc){
+
+            display: block;
+        }
+    }
+}
